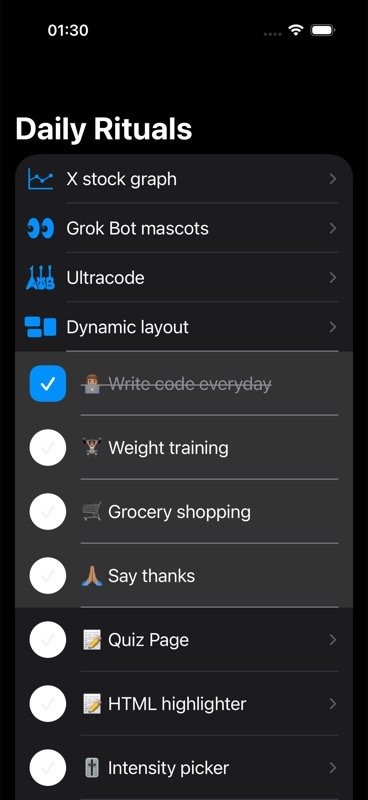
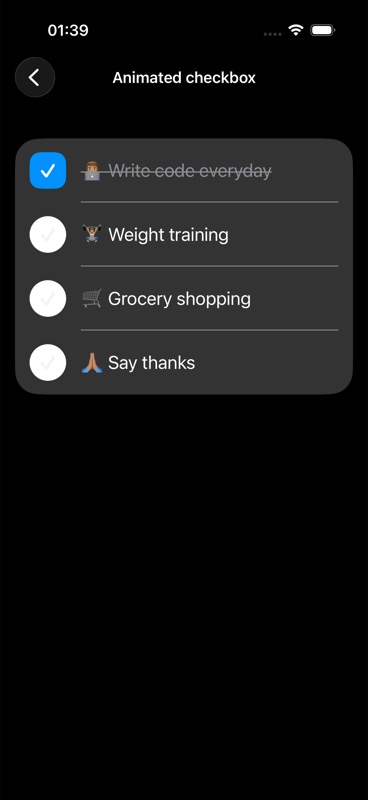
Move ritual checkboxes into a dedicated demo

diff --git a/UI-Experiments/ContentView.swift b/UI-Experiments/ContentView.swift
@@ -43,33 +43,40 @@ struct ContentView: View {
 				}
 				.accessibilityIdentifier("dynamic-layout-demo")
 
-				Row(text: "👨🏽💻 Write code everyday")
-				Row(text: "🏋🏽 Weight training")
-				Row(text: "🛒 Grocery shopping")
-				Row(text: "🙏🏽 Say thanks")
+				NavigationLink {
+					AnimatedCheckboxDemoView()
+				} label: {
+					Label("Animated checkbox", systemImage: "checkmark.square")
+						.font(.title3)
+				}
+				.accessibilityIdentifier("animated-checkbox-demo")
 
 				NavigationLink {
 					StickyHeaderQuestionView()
 				} label: {
-					Row(text: "📝 Quiz Page")
+					Label("Quiz Page", systemImage: "checklist")
+						.font(.title3)
 				}
 
 				NavigationLink {
 					HighlightSampleView()
 				} label: {
-					Row(text: "📝 HTML highlighter")
+					Label("HTML highlighter", systemImage: "highlighter")
+						.font(.title3)
 				}
 
 				NavigationLink {
 					IntensityPickerDemoView()
 				} label: {
-					Row(text: "🎚 Intensity picker")
+					Label("Intensity picker", systemImage: "slider.horizontal.3")
+						.font(.title3)
 				}
 
 				NavigationLink {
 					CoverFlowDemoView()
 				} label: {
-					Row(text: "📚 Cover Flow")
+					Label("Cover Flow", systemImage: "books.vertical")
+						.font(.title3)
 				}
 
 			}
@@ -80,77 +87,6 @@ struct ContentView: View {
 	}
 }
 
-struct Row: View {
-	@State private var isComplete = false
-	let text: String
-	let background: Color = .black.opacity(0.86)
-	var body: some View {
-		HStack {
-			CheckMark(onTap: { isComplete.toggle() })
-			Text(text)
-				.font(.title3)
-				.foregroundStyle(isComplete ? .gray : .white)
-				.strikethrough(isComplete)
-				.padding(.leading, 8.0)
-		}
-		.listRowBackground(background.lighten)
-		.listRowSeparatorTint(.gray)
-	}
-}
-struct CheckMark: View {
-	@State var isComplete: Bool = false
-	@State var degrees = false
-	@State var opacity = false
-
-	private let cornerRadius = 12.0
-	private let size = 40.0
-	var onTap: (() -> Void)?
-	var body: some View {
-		ZStack {
-			RoundedRectangle(cornerRadius: cornerRadius)
-				.frame(width: size, height: size)
-				.foregroundColor(.blue)
-				.scaleEffect(isComplete ? 1.8 : 0)
-				.opacity(opacity ? 0 : 0.5)
-
-			RoundedRectangle(cornerRadius: isComplete ? cornerRadius : 20.0)
-				.frame(width: size, height: size)
-				.foregroundColor(isComplete ? .blue : .white)
-
-			Image(systemName: "checkmark").bold()
-				.opacity(isComplete ? 1.0 : 0.1)
-				.foregroundColor(isComplete ? .white : .gray)
-		}
-		.rotationEffect(.degrees(degrees ? -20.0 : 0.0))
-		.onTapGesture {
-			onTap?()
-			withAnimation {
-				isComplete.toggle()
-			}
-
-			withAnimation(.easeInOut(duration: 0.5).delay(0.2)) {
-				degrees.toggle()
-				opacity.toggle()
-			}
-
-			withAnimation(.easeInOut(duration: 0.5).delay(0.7)) {
-				degrees.toggle()
-			}
-		}
-	}
-}
-
-struct CheckMarkPreview: View {
-	@State private var isComplete = false
-	var body: some View {
-		ZStack {
-			Color.black.ignoresSafeArea()
-			CheckMark()
-		}
-
-	}
-}
 #Preview {
     ContentView()
-//	CheckMarkPreview()
 }

diff --git a/UI-Experiments/AnimatedCheckboxDemoView.swift b/UI-Experiments/AnimatedCheckboxDemoView.swift
@@ -1,0 +1,83 @@
+import SwiftUI
+
+struct AnimatedCheckboxDemoView: View {
+	var body: some View {
+		List {
+			Row(text: "👨🏽💻 Write code everyday")
+			Row(text: "🏋🏽 Weight training")
+			Row(text: "🛒 Grocery shopping")
+			Row(text: "🙏🏽 Say thanks")
+		}
+		.navigationTitle("Animated checkbox")
+		.navigationBarTitleDisplayMode(.inline)
+	}
+}
+
+private struct Row: View {
+	@State private var isComplete = false
+	let text: String
+	let background: Color = .black.opacity(0.86)
+
+	var body: some View {
+		HStack {
+			CheckMark(onTap: { isComplete.toggle() })
+			Text(text)
+				.font(.title3)
+				.foregroundStyle(isComplete ? .gray : .white)
+				.strikethrough(isComplete)
+				.padding(.leading, 8.0)
+		}
+		.listRowBackground(background.lighten)
+		.listRowSeparatorTint(.gray)
+	}
+}
+
+private struct CheckMark: View {
+	@State private var isComplete = false
+	@State private var degrees = false
+	@State private var opacity = false
+
+	private let cornerRadius = 12.0
+	private let size = 40.0
+	var onTap: (() -> Void)?
+
+	var body: some View {
+		ZStack {
+			RoundedRectangle(cornerRadius: cornerRadius)
+				.frame(width: size, height: size)
+				.foregroundColor(.blue)
+				.scaleEffect(isComplete ? 1.8 : 0)
+				.opacity(opacity ? 0 : 0.5)
+
+			RoundedRectangle(cornerRadius: isComplete ? cornerRadius : 20.0)
+				.frame(width: size, height: size)
+				.foregroundColor(isComplete ? .blue : .white)
+
+			Image(systemName: "checkmark").bold()
+				.opacity(isComplete ? 1.0 : 0.1)
+				.foregroundColor(isComplete ? .white : .gray)
+		}
+		.rotationEffect(.degrees(degrees ? -20.0 : 0.0))
+		.onTapGesture {
+			onTap?()
+			withAnimation {
+				isComplete.toggle()
+			}
+
+			withAnimation(.easeInOut(duration: 0.5).delay(0.2)) {
+				degrees.toggle()
+				opacity.toggle()
+			}
+
+			withAnimation(.easeInOut(duration: 0.5).delay(0.7)) {
+				degrees.toggle()
+			}
+		}
+	}
+}
+
+#Preview {
+	NavigationStack {
+		AnimatedCheckboxDemoView()
+	}
+}

diff --git a/README.md b/README.md
@@ -110,9 +110,10 @@ standalone SwiftUI preview in `DynamicLayoutDemoView.swift`.
 
 ## Animated checkbox
 
-<img src="Resources/Screenshots/animated-checkbox.jpg" alt="Daily Rituals list with a blue checked item and strikethrough text beside unchecked items" width="280">
+<img src="Resources/Screenshots/animated-checkbox.jpg" alt="Animated checkbox demo with four rituals, a blue checked item, and strikethrough text beside unchecked items" width="280">
 
-Tap a checkbox beside a ritual on the main list to toggle its completed state.
+Open **Animated checkbox** from the main list to see all four sample rituals.
+Tap a checkbox beside a ritual to toggle its completed state.
 Layered shapes animate the checkmark, blue fill, and bounce while the label gains a strikethrough.
 
 ![Animated checkbox demonstration](Resources/screen_recording.gif "Animated Checkbox")
